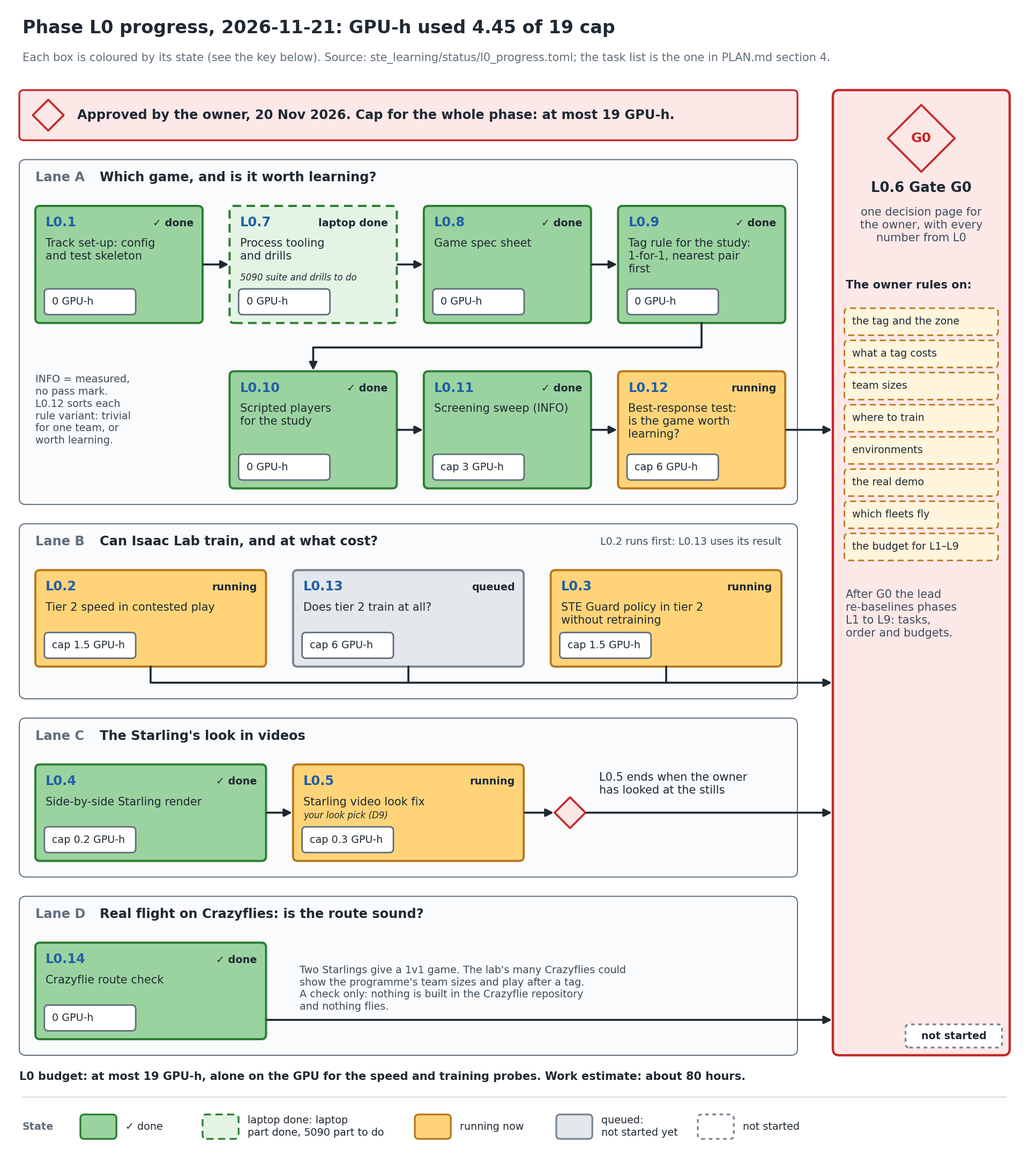
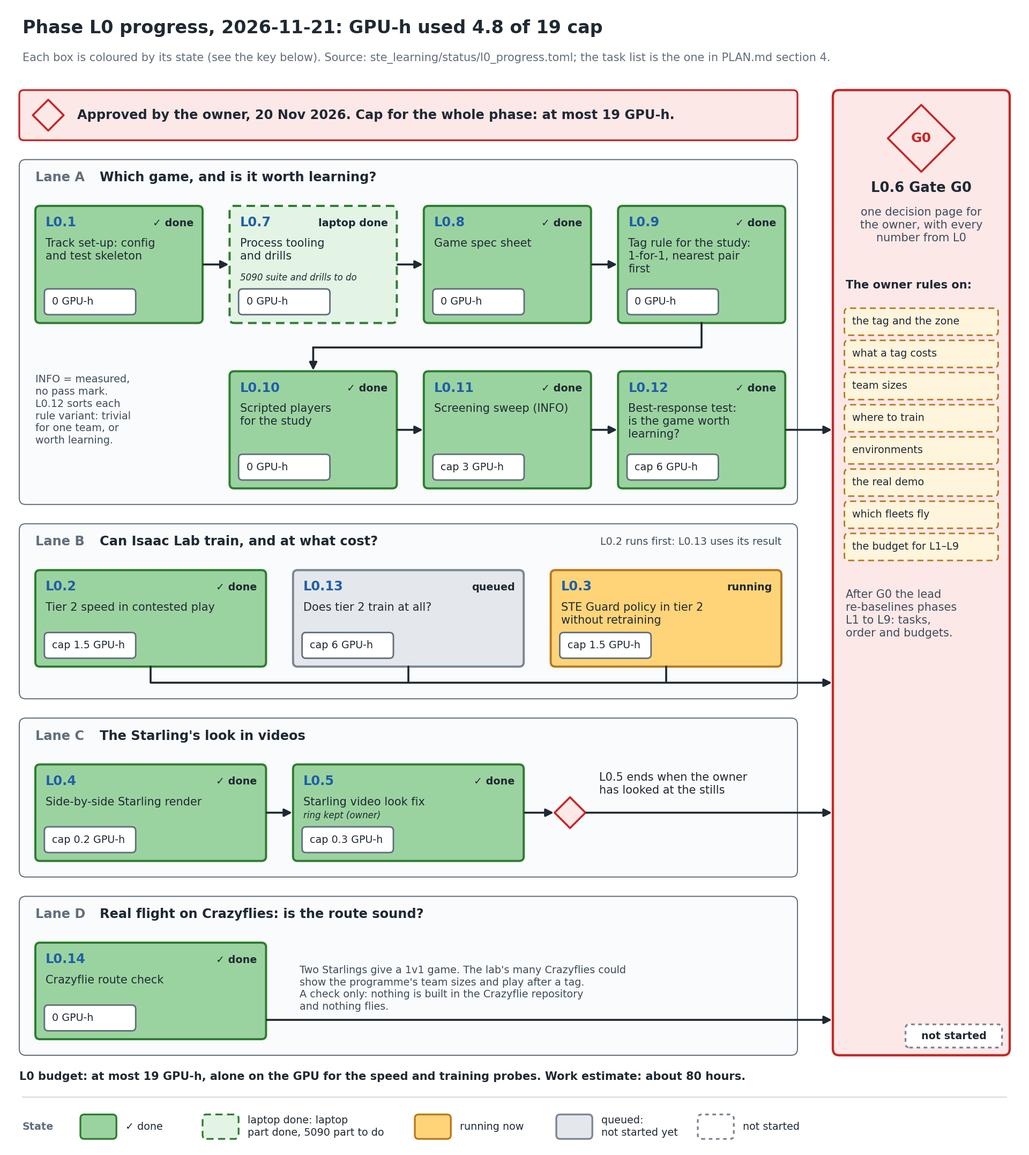
svg_training status: L0.2 done; owner decisions (ring, no re-run, bubble-tag test approved); plan

diff --git a/svg_training/ste_learning/status/LOG.md b/svg_training/ste_learning/status/LOG.md
@@ -9069,3 +9069,163 @@ Laptop drills (21 Nov, fix branch, shared folder `~/AirStack-starling-max2/svg_t
 **Waiting on you.** (1) D9: ring, dot, or neither — clips with the ring: `docs/media/ste_l011/3d/base_reach_3d.gif`; dot only as a still (`docs/media/ste_l05/arena_own_dot_3d.png`); I can render a dot clip (~0.05 GPU-h) if you want to compare moving. (2) Done: no re-run of tag 1.2 m Strike (you agreed). (3) Done: the AirStack sim video (`videos/random_CBF_sim_edited.mp4`) shows the same unpainted grey Starling; only the floor differs (blue grid there, grey here).
 
 **Correction.** The 21 Nov question on NUS values listed "speeds 0.6 / 1.2". The L0.8 review reads those two numbers as the decision period (0.6 s) and the flight height (1.2 m); the speeds are 0.5 and 0.333 m/s. Your Yes covers all of them as written on the sheet.
+
+## 2026-11-21 13:54
+
+**Status, 2026-11-21 13:55 (+08:00), 30-minute update: L0.2 DONE; L0.3 running; your decisions recorded; bubble-tag test approved** · laptop RTX 5070 Ti · L0.3 CPU part · 1 job
+
+**Plain summary (L0.2 Tier 2 speed).** Tested: how fast the Isaac Lab drones play with both teams and a learner in the
+loop. Happened: every control PASS; 3v3 at 16,384 games at once fits (4.7 GB) at 67 k training game-steps/s, against 208 k
+for the fast engine at 8,192 (Isaac Lab is 3–6× slower). Why it matters: Isaac Lab training is affordable — 300 M game-steps
+is about 1.3 h — so L0.13 (can it train at all?) runs tonight.
+
+**Your decisions today (recorded):** D9 ring kept as the team marker; no re-run of the tag 1.2 m Strike run; **test the
+"touch the safety bubble" tag at 1.15 m** (about 1.3 GPU-h beyond L0.12's 6, approved); real demo = proximity tag, physical
+interdiction shown in simulation (a proposal for G0).
+
+### Watch (latest clips and figures)
+
+**New: the L0.11 games in 3-D** (VID-1). The same recorded games, replayed and checked equal to record T44 on all
+90,000 games, then drawn in Isaac Lab with the AirStack simulator's Starling. Base 3v3, best scripted Guard v best
+scripted Strike, half real time. Training simulator tier 1 replayed for drawing only (drones drawn level); not a flight.
+
+| Guard holds (3-D view) | Strike reaches (3-D view) |
+|---|---|
+| ![](../../docs/media/ste_l011/3d/base_hold_3d.gif) | ![](../../docs/media/ste_l011/3d/base_reach_3d.gif) |
+
+Top views and the tag 1.2 m / 1.4 m games: [docs/media/ste_l011/3d/](../../docs/media/ste_l011/3d/README.md).
+
+**Your pick (D9): how should a team show on the drone?** Left: the Starling as the AirStack file draws it. Then a ring
+around the drone, or a small dot on top. The 3-D clips above use the ring for now.
+
+![](../../docs/media/ste_l05/row_l05_close.png)
+
+**Bug found and fixed (L0.4):** every Isaac clip since S2b drew a grey physics box over the drone (the hide call
+missed it). Before / after:
+
+| Before | After |
+|---|---|
+| ![](../../docs/media/ste_l04/clip_drone_before_fix.png) | ![](../../docs/media/ste_l04/clip_drone_after_fix.png) |
+
+Where phase L0 is: green done, light green laptop part done, amber running, grey queued (state file
+`ste_learning/status/l0_progress.toml`, figure by `scripts/make_ste_learning_figures.py l0_progress`).
+
+![](../figures/l0_progress.png)
+
+Earlier: L0.11 top-down clips and the factor chart are in the [T44 record](../../records/2026-11-21_ste_l011_screen_record.md).
+
+### Phases
+
+| Phase | Status | Math library | Simulator | What |
+|---|---|---|---|---|
+| NUS port Phases 1–4 | DONE | JAX (NUS), PyTorch | NUS 2-D game (JAX), Copy of NUS 2-D game (PyTorch), tier 2 Isaac Lab | NUS's code installed, game and policies copied to PyTorch, six tests towards STE drones |
+| NUS port Phase 5 | PAUSED (lead call D8) | PyTorch | Copy of NUS 2-D game (PyTorch), tier 1 fast engine | 5.1 Method match FAIL (T43); STE Guard policy 829 of 1,000 (T41) |
+| NUS port Phase 6 | DONE | none | none | public documents with videos |
+| ▶ L0 Game definition and feasibility | RUNNING (approved 20 Nov, cap 19 GPU-h) | PyTorch | tier 1 fast engine, tier 2 Isaac Lab | which game, worth learning, can tier 2 train, is the Crazyflie route sound |
+| L1–L8 | NOT STARTED | PyTorch | as ruled at gate G0 | drone model, rules, learner, evaluation, league, export, AirStack side, real flight |
+| L9 Documentation | RUNNING | none | none | status, records, results page |
+
+### Phase L0 Game definition and feasibility, task by task
+
+| ID | Plain name | Status | Simulator | Result / ETA |
+|---|---|---|---|---|
+| L0.1 | Track set-up: config and test skeleton | DONE | none | settings file, loader, tests; independent QC closed all findings |
+| L0.7 | Process tooling and drills | RUNNING (laptop part DONE) | none | merged into `development`; laptop: full suite 1,420 passed / 0 failed, wake-up drill and resume drill both as expected (below); DONE when the 5090 has run the same (L07-5090) |
+| L0.8 | Game spec sheet | DONE | none | merged into `development`; QC passed; full suite on `development` 1,461 passed / 0 failed (41 min) |
+| L0.9 | Tag rule for the study: 1-for-1, nearest pair first | DONE | tier 1 fast engine | merged; QC + re-check passed; full suite on `development` 1,517 passed / 0 failed (31 min); the 5090 records its own tag-off positions (L09-5090) |
+| L0.10 | Scripted players for the study | DONE | tier 1 fast engine | merged; QC + 2 re-checks passed; full suite on `development` 1,600 passed / 0 failed (56 min, CPU shared with the L0.11 GPU jobs) |
+| L0.11 | Screening sweep (INFO) | DONE | tier 1 fast engine | record T44 (every control PASS; shortlist base (reference), tag 1.2 m, tag 1.4 m; every hold a one-for-one trade) + follow-up checks; merged into `development`; full suite 1,685 passed / 0 failed (27 min) |
+| L0.12 | Best-response test: is the game worth learning? | DONE (records T46/T47 written, QC PASS; merging) | tier 1 fast engine | pilot PASS; run 0 PASS; **base: worth learning** (Guard 913 v 808, Strike 636 v 192); **tag 1.4 m: worth learning** (Guard 747 v 672, Strike 740 v 328); **tag 1.2 m: incomplete** (Guard 503 v script 645; Strike ABORTED, 87/88 updates, trained Strikes wait out the clock); every control PASS; 3.86 GPU-h of 6; record T46 (verdict) + T47 (aborted run) being written; 3-D clips of the key games need VID-1b (the 3-D tool replays scripted players only) |
+| L0.2 | Tier 2 speed in contested play | DONE (record next) | tier 2 Isaac Lab | every control PASS (physics check 0.0036 m, game counts identical); 3v3: Isaac Lab 9.8 k (1,024 games) → 67 k (16,384 games) training game-steps/s v fast engine 51 k → 208 k (8,192); 16,384 Isaac games use 4.7 GB; 5v3, 2v1, 1v1 at 4,096 measured; 0.29 GPU-h (+0.10 smokes) |
+| L0.13 | Does tier 2 train at all? | NOT STARTED | tier 2 Isaac Lab | laptop allowed (owner, 21 Nov), after L0.2, at the games-at-once L0.2 shows fits; cap 6 GPU-h |
+| L0.3 | STE Guard policy in tier 2 without retraining | RUNNING | tier 2 Isaac Lab | smoke PASS (physics check 0.00008 m); cap 1.4 GPU-h (smokes used ~0.04); CPU reference part running, Isaac part follows automatically |
+| L0.4 | Side-by-side Starling render | DONE | tier 2 Isaac Lab | found why our clips never looked like the Starling: a grey physics box was drawn over every drone since S2b (the hide call missed it); one-line fix, re-render shows the Starling (before/after in Watch); merged into `development` after independent review; 0.028 of 0.2 GPU-h |
+| L0.5 | Starling video look fix | WAITING ON YOU (D9) | tier 2 Isaac Lab | the drone left unpainted, team shown by a ring or a small dot that casts no shadow; stills in Watch; 0.154 of 0.3 GPU-h (with VID-1) |
+| L0.14 | Crazyflie route check | DONE | tier 1 fast engine (CPU) | record T45: the T41 Guard policy holds 791–768 of 1,000 in the Crazyflie-like lag band (0.48–0.56 s, every drone slowed) against 831 at the Starling's lag, and drones come closer (games under 1.0 m: 7 → 101–149); planner, like for like: 0 of 100 at 3v3 and 5v3 against 20 Nov's 5 of 100 (not a clear difference; only one rule set run); QC + re-check passed; merged into `development` (targeted tests 76 passed; the full suite runs with the next merge — lead's call, the CPU is shared now); page `ste_learning/CRAZYFLIE_ROUTE.md` |
+| L0.6 | Gate G0 | NOT STARTED | none | after every task above; the owner decides |
+
+GPU-h used in L0 so far: about 4.8 of 19 (L0.11 0.43, L0.4 0.03, L0.5 + VID-1 0.15, L0.2 0.39, L0.12 3.86); L0.3 running. Expected at the end of L0: about 13–14.
+
+Laptop full CPU suite (20 Nov, `development` at 5c5d465, after `scripts/nus_install_provisional.sh`): **1,333 passed, 2 failed, 48 skipped** in 24 min. Both failures repeat when run alone:
+- **L07-F1** `test_ste_job.py::test_f_d_a_killed_job…resumes`: CONFIRMED by QC: the tool does not over-report (it measures from the same start; ~0.255 s raw, printed rounded to 0.3); the test compares the rounded text with the exact elapsed time. Fix: allow half a display step.
+- **TEST-F2** `test_train_standin.py::test_default_path_bit_identical_after_the_nus_hooks`: FIXED (447b317). Measured on the laptop: the hash repeats (75d2a955…), hold rates equal the recorded [0.25, 0.375], and forcing PyTorch's CPU capability down changes the hash; threads (trainer runs one) and local files (not read on this path) ruled out. The fingerprint is now one hash per CPU capability; hold rates are checked on every machine.
+
+### Usage (laptop session, 20 Nov 22:00 to now)
+
+| What | Agent tokens | Wall time | Note |
+|---|---|---|---|
+| L0.7 fixes: builder, 7 fixes one at a time | ~400 k | ~51 min | the largest: each fix re-reads the tooling and its tests |
+| L0.8 Game spec sheet: builder, build + 2 fix rounds | ~320 k | ~50 min | includes its own 25-min full suite |
+| L0.7 independent QC + re-check | ~246 k | ~18 min | reproduced C1 and I1 in a scratch folder |
+| L0.8 independent QC + re-check | ~209 k | ~12 min | mutation tests on the sheet |
+| L0.9 Tag rule: builder (build + fix round) | ~358 k | ~66 min | the first 50 min slowed by sharing the CPU with the L0.7 suite |
+| L0.9 independent QC + re-check | ~239 k | ~31 min | ran its own reference matcher, mutants and old-vs-new games |
+| L0.10 Scripted players: builder (build + rulings + 2 QC fix rounds) | ~420 k | ~56 min | |
+| L0.10 independent QC (+ 2 re-checks) | ~353 k | ~71 min | 84 deliberate breakages over two rounds; its own geometry probes on 30,000+ starts |
+| L0.11 sweep build (CPU, build + rulings + rebase + QC fixes + follow-ups) | ~677 k | ~106 min | the largest single task so far; a fresh builder takes L0.12 to avoid re-reading this context |
+| L0.12 groundwork builder | ~550 k | ~54 min | |
+| L0.12 pre-launch QC | ~322 k | ~48 min | 19 deliberate breakages, 8 not caught before the fixes |
+| L0.14 builder | ~368 k | ~118 min | the Crazyflie planner sweep ran on the CPU (2,868 matches) |
+| L0.11 pre-launch QC | ~293 k | ~24 min | broke the code five ways through the real driver |
+| L0.11 CUDA smoke | | ~5 min | 0.087 GPU-h |
+| L0.11 independent QC (pre-launch, re-check, results read) | ~419 k | ~45 min | |
+| L0.11 sweep | | 18 min | 0.305 GPU-h (L0.11 total 0.426 of 3.0) |
+| L0.4 + L0.5 + VID-1 builder (stills, box bug, replay check, 3-D renderer) | ~410 k | ~3 h incl. the 08:30 limit stop | 0.141 GPU-h; the account hit its 5-hour token limit at about 07:30 (three agents at once); resumed 08:44 |
+| L0.12 gate fix + follow-up builder | ~280 k | ~55 min | run 0 design, N-2/N-4, tests |
+| L0.12 QC re-checks 1–2 | ~450 k | ~30 min | 8 breakages tried on run 0 |
+| L0.2/L0.3 builder | ~410 k | ~30 min | + fix round now |
+| L0.2/L0.3 pre-launch QC + 2 re-checks | ~650 k | ~60 min | 39 + 6 breakages tried |
+| L0.2/L0.3 fix rounds 1-2 | ~1.1 M | ~41 min | **the costliest task today**: each round re-reads the code; narrow rounds from here |
+| L0.12 GPU pilot | | 11 min | 0.178 GPU-h |
+| L0.11 GPU pilot | | 2 min | 0.034 GPU-h (first GPU job of the track) |
+| Full CPU test suite | none | ~25 min alone; the L0.7 merge run took 61 min (shared the CPU with L0.9's tests) | rule from now: one heavy test run at a time |
+| GPU | 0 GPU-h | | nothing has used the GPU |
+
+Sub-agents total about 1.2 M tokens so far; the lead's own context is not measured by the tools here.
+
+Laptop drills (21 Nov, fix branch, shared folder `~/AirStack-starling-max2/svg_training/runs/shared/`, no owner pause open):
+- Wake-up: `L0.7 l07_wakeup DONE exit=0 duration=120.4s effective=120.4s`, `waiter exit 0` (the background waiter's end was the wake-up).
+- Resume: `alive` → simulated power cut (`kill -KILL` of the process group at step 30) → `dead`; waiter `DIED exit=none duration=31.2s`, `waiter exit 21`; relaunch with `bash cmd.txt` from a shell with a wrong `PYTHONPATH` and `SVG_SHARED_DIR` → `launch=2`, `resumed from step 30 of 120`, `DONE exit=0 duration=90.4s effective=90.4s run_effective=120.3s`, `waiter exit 0`, `{"steps": 120, "total": 7260.0}`; the wrong shared folder was never created.
+
+### Other workstreams
+
+| ID | Plain name | Status |
+|---|---|---|
+| SYNC-1 | Branch `development` on both machines; laptop worktree `~/AirStack-starling-max2-dev` | DONE |
+| SYNC-2 | Status skill `train-status` and the owner's standing rules in CLAUDE.md | DONE |
+| SYNC-3 | Root `CLAUDE.md` and every page: training work lands on `development` | DONE |
+| SYNC-4 | STE Guard policy (T41 run folder) in the PROVISIONAL bundle | DONE; installed on the laptop (46 files, agent.pt c91bea51…) |
+| L07-F1 | Fix: waiter-duration test bound (rounding) (QC I5) | DONE (a4100d0; 30 of 30 runs pass; L0.7 test files 217 passed) |
+| L07-C1 | Fix: an open pause takes time off every job, and launch does not check for one: a job launched during a pause runs on the GPU with 0 GPU-h counted and its cap never fires | DONE (79effa0 on branch ste-l0.7-fix; red 48 failed, then L0.7 + NUS pause tests 251 passed). Pauses still always logged; launch refuses while one is open; a pause counts only against the jobs it stopped |
+| L07-I1 | Fix: a new run reusing an old job name inherits that job's GPU-hours as credit (task cap can be exceeded) | DONE (05dd547; credit keyed by job name + run folder; red 24 failed, then 256 passed) |
+| L07-I2 | Fix: `cmd.txt` relaunch loses the environment (PYTHONPATH, CUDA alloc setting, shared-folder path) | DONE (d0661f4; cmd.txt replays the first launch's environment; a different shared folder is refused; resume drill uses bash cmd.txt; red 3 failed, then 259 passed) |
+| L07-I3 | Fix: the launcher's wrapper can die (clock step back, full disk) while the job runs on: GPU time stops being logged | DONE (1ca8a70; every wrapper write survives an error, records a fault and retries; red 8 failed, then 267 passed) |
+| L07-I4 | Fix: a job resumed after a reboot is flagged ENDED_EARLY (exit 20) though it finished correctly | DONE (70fc1a3; judged on the trainer's saved progress across launches; red: drill pattern read 20; then 280 passed) |
+| L08-F1 | Finding: the hangar's Strike start ring (3.2 m from the zone centre) does not fit the 6.5 m lab arena (drones kept within 3.0 m); a ring for 6.5 m is needed before L0.11's base case | CLOSED (lead's call): Strike start ring 2.75 m for the 6.5 m arena, PROPOSED, ruled at G0 |
+| L07-C1b | Fix: our own "pause the siblings, run solo" step (AUTOMATION §2.2) is now refused too; lead's design: pauses the session makes are tagged and do not block launch, your pauses still do | DONE (ef38534; `GPU_PAUSE_BY=lead` tags the session's pauses; a bare `gpu_pause.sh pause` is still yours and still blocks; red 13 failed, then 298 passed) |
+| L07-C1c | Fix: a session-tagged resume must refuse while any of your pauses is open (a resume today continues every job and closes your pauses too) | DONE (efa9ec1; a bare resume/stop is unchanged; red 4 failed, then 304 passed) |
+| GIT-1 | Fix: my 17 Nov `.gitignore` line `data/` also hid new files in `tests/data/` | DONE (d3572dc: anchored to `/data/`) |
+| L011-F1 | Finding: scripted players decide every 0.05 s tick, not at the sheet's 0.6 s decision period; the sweep measures scripted play at 0.05 s; L0.12's trainers must set their decision period explicitly (T41 used 0.6 s) | OPEN: written into the L0.11 gate file and record |
+| L07-SUSPEND | Tooling: a laptop sleep during a GPU job is counted as GPU-hours and as time towards the job's cap (wall clock). Rule until fixed: never let the laptop sleep during a GPU job | QUEUED (tooling task); rule in force now |
+| L011-G0 | Finding for gate G0 (T44, scripted play): (1) every hold is a one-for-one trade — no tag-on game times out, and at 1v1 and 3v3 a Guard win leaves no Guard — so head-count decides (PLAN F1; bears on what a tag costs, P12); (2) the programme's sizes 2v1 and 5v3, and 1v1, are Guard-trivial with scripted players at the proposed rules; candidate cause: tag radius 1.6 m = zone radius 1.6 m with Guards starting on a circle near the zone centre (not tested). L0.12 measures whether learning changes either | OPEN: reported at G0 |
+| L010-G0 | Finding for gate G0 (from L0.10 QC): any safety-filter move near the 1.6 m tag radius can create a tag nobody chose (the filter's 1.10 m keep-out is inside the tag radius). Spaced starts remove it at the start; during play it is part of the game the sweep measures (P1) | OPEN: reported at G0 |
+| L09-5090 | On the 5090: record the tag-off golden's positions for its CPU type (AVX512); check the outcome fingerprints there | WAITING: next 5090 session |
+| DOC-1 | A phase-L0 flowchart coloured by progress (done / running / queued), regenerated with each status and shown in its Watch section (owner, 21 Nov: "photos or diagram flow charts would be good too") | DONE (progress flowchart; regenerated with each status) |
+| VID-1 | Clips: a height panel on the 2-D top-down clips of every run; 3-D Isaac Lab videos (Starling look, top view + 3-D view, MP4 + GIF) of each result's key games | L0.11 DONE, merged: 6 key games (base, tag 1.2 m, tag 1.4 m × hold, reach) × top + 3-D, MP4 + GIF; every replayed game checked equal to T44 (90,000 of 90,000) before drawing; independent review: 1 important bug (old files could be drawn after a failed check; never happened) + minors, fixed and re-reviewed; the published games re-checked with the stricter check: identical; full suite on the merge 1,751 passed (the 2 failures it found are fixed: an unlisted Crazyflie import from L0.14, and my progress-chart test reading the live file); next: L0.12 results |
+| L08-M | L0.8 minors left: 3 hangar values unchecked on a clone without the NUS bundle; 3 values whose wrong value still passes; loader refuses some honest wording; tests tied to exact lines and the AirStack fence file | PARKED |
+| L07-DISK | Follow-up: the planned disk-space check (a disk full through 10 retries at a job's end reads DIED) | PARKED (stated limit) |
+| L07-N | Re-check minors N1–N4: a session pause also lands in the old per-worktree log the NUS reader uses; full disk can hold the wrapper 10 min after the end; AUTOMATION §4 still states the old GPU-hour rule; on the 5090 run `scripts/ste_job.py owner-pauses` before the drills | PARKED (N4 goes into the 5090 note) |
+| L07-M | QC's 10 minor findings (+3 from the C1 build: pid-only matching, test pause pattern shared across sessions, pid reuse) (runs/ste_l07/qc_report.md) | PARKED until the six fixes land |
+| L07-5090 | L0.7 on the 5090: full CPU suite and the two drills there (L0.7 is DONE only after both machines) | WAITING: next 5090 session |
+| TEST-F2 | Fix: bit-level training fingerprint is machine-specific | DONE (447b317; trainer test file 43 passed, 1 skipped) |
+| TEST-F2b | On the 5090: confirm its CPU capability is AVX512 (the key its 18 Nov hash is now filed under) | WAITING: next 5090 session runs the test (fails or skips loudly if wrong) |
+
+**Machines (owner, 21 Nov):** no task is 5090-only. The RTX 5090 (32 GB) suits memory-heavy runs; the laptop RTX 5070 Ti (12 GB) runs everything sized to fit, and the record says which machine. Only machine checks stay with their machine: TEST-F2b, L07-5090, L09-5090. **Schedule:** weekends the laptop runs the pipeline (the 5090 is free for gaming); weekdays the 5090 does (the laptop goes to work). **This weekend:** the owner packs the laptop **Mon 23 Nov 10:00**: no GPU job starts unless it can end by **Mon 08:00**; by **09:30** everything is committed, HANDOFF §0 and status written, ready to push.
+
+**GPU queue on the laptop (one at a time for speed measurements):** L0.12 pilot → L0.12 trainings → L0.2 → L0.3 → L0.13 (L0.4, L0.5, VID-1 for L0.11 done).
+
+**Next.** (1) L0.3 (running). (2) Merge L0.12 (suite running), L0.2 record. (3) Bubble-tag test at 1.15 m: rules written first, scripted screen, then a trained Guard and Strike (~1.3 GPU-h, this evening). (4) L0.13 overnight (≤ 6 GPU-h). (5) 3-D clips of trained players with a visible tag circle (VID-1b). (6) The G0 page, Sunday. Hard stop: GPU jobs end Mon 08:00, wrap-up 09:30.
+
+**Waiting on you.** Nothing now. At gate G0: tag rule (1.15 m bubble or 1.4 m), varied tag distance in training, what a tag costs, zone size, team sizes, where to train, the real demo, the physical-intercept study, the L1–L9 budget.
+
+**Correction.** The 21 Nov question on NUS values listed "speeds 0.6 / 1.2". The L0.8 review reads those two numbers as the decision period (0.6 s) and the flight height (1.2 m); the speeds are 0.5 and 0.333 m/s. Your Yes covers all of them as written on the sheet.

diff --git a/svg_training/ste_learning/status/STATUS_LATEST.md b/svg_training/ste_learning/status/STATUS_LATEST.md
@@ -1,13 +1,15 @@
 INTERNAL · the latest status of STE's own learning track and the NUS port, overwritten at every update; the history is in [LOG.md](LOG.md). Produced by the `train-status` skill.
 
-**Status, 2026-11-21 13:25 (+08:00), event: L0.12 all runs done (base and tag 1.4 m worth learning); L0.2 run of record running** · laptop RTX 5070 Ti · GPU: L0.2 · 1 job
+**Status, 2026-11-21 13:55 (+08:00), 30-minute update: L0.2 DONE; L0.3 running; your decisions recorded; bubble-tag test approved** · laptop RTX 5070 Ti · L0.3 CPU part · 1 job
 
-**Plain summary (L0.12 Best-response test, all runs done).** Tested: can a trained team beat the best hand-written team, three
-rule sets, both sides. Happened (training simulator): base and tag 1.4 m are **worth learning** on both sides (base Guard 913 v
-808, Strike 636 v 192; tag 1.4 m Guard 747 v 672, Strike 740 v 328, all gains real); tag 1.2 m is **incomplete**: the trained
-Guard stayed below its script (503 v 645) and the Strike run was ABORTED by its own time rule (87 of 88 updates). The scripts
-alone already put both sides above the 0.2 band there, so no side is trivial; no re-run (owner agreed). Record T46/T47 being
-written. Why it matters: this is the main input to gate G0 — the game is worth learning.
+**Plain summary (L0.2 Tier 2 speed).** Tested: how fast the Isaac Lab drones play with both teams and a learner in the
+loop. Happened: every control PASS; 3v3 at 16,384 games at once fits (4.7 GB) at 67 k training game-steps/s, against 208 k
+for the fast engine at 8,192 (Isaac Lab is 3–6× slower). Why it matters: Isaac Lab training is affordable — 300 M game-steps
+is about 1.3 h — so L0.13 (can it train at all?) runs tonight.
+
+**Your decisions today (recorded):** D9 ring kept as the team marker; no re-run of the tag 1.2 m Strike run; **test the
+"touch the safety bubble" tag at 1.15 m** (about 1.3 GPU-h beyond L0.12's 6, approved); real demo = proximity tag, physical
+interdiction shown in simulation (a proposal for G0).
 
 ## Watch (latest clips and figures)
 
@@ -61,16 +63,16 @@ Earlier: L0.11 top-down clips and the factor chart are in the [T44 record](../..
 | L0.9 | Tag rule for the study: 1-for-1, nearest pair first | DONE | tier 1 fast engine | merged; QC + re-check passed; full suite on `development` 1,517 passed / 0 failed (31 min); the 5090 records its own tag-off positions (L09-5090) |
 | L0.10 | Scripted players for the study | DONE | tier 1 fast engine | merged; QC + 2 re-checks passed; full suite on `development` 1,600 passed / 0 failed (56 min, CPU shared with the L0.11 GPU jobs) |
 | L0.11 | Screening sweep (INFO) | DONE | tier 1 fast engine | record T44 (every control PASS; shortlist base (reference), tag 1.2 m, tag 1.4 m; every hold a one-for-one trade) + follow-up checks; merged into `development`; full suite 1,685 passed / 0 failed (27 min) |
-| L0.12 | Best-response test: is the game worth learning? | DONE (record being written) | tier 1 fast engine | pilot PASS; run 0 PASS; **base: worth learning** (Guard 913 v 808, Strike 636 v 192); **tag 1.4 m: worth learning** (Guard 747 v 672, Strike 740 v 328); **tag 1.2 m: incomplete** (Guard 503 v script 645; Strike ABORTED, 87/88 updates, trained Strikes wait out the clock); every control PASS; 3.86 GPU-h of 6; record T46 (verdict) + T47 (aborted run) being written; 3-D clips of the key games need VID-1b (the 3-D tool replays scripted players only) |
-| L0.2 | Tier 2 speed in contested play | RUNNING (run of record) | tier 2 Isaac Lab | re-smoke PASS: physics check 0.0036 m (limit 0.02), game counts identical in both worlds; smoke speed at 1,024 games: Isaac 9,800 v fast engine 51,000 training game-steps/s; run of record started 13:13, cap lowered 1.5 → 1.4 GPU-h before it (smokes used 0.096); now at 5v3, 4,096 games (~0.9 GPU-h expected) |
+| L0.12 | Best-response test: is the game worth learning? | DONE (records T46/T47 written, QC PASS; merging) | tier 1 fast engine | pilot PASS; run 0 PASS; **base: worth learning** (Guard 913 v 808, Strike 636 v 192); **tag 1.4 m: worth learning** (Guard 747 v 672, Strike 740 v 328); **tag 1.2 m: incomplete** (Guard 503 v script 645; Strike ABORTED, 87/88 updates, trained Strikes wait out the clock); every control PASS; 3.86 GPU-h of 6; record T46 (verdict) + T47 (aborted run) being written; 3-D clips of the key games need VID-1b (the 3-D tool replays scripted players only) |
+| L0.2 | Tier 2 speed in contested play | DONE (record next) | tier 2 Isaac Lab | every control PASS (physics check 0.0036 m, game counts identical); 3v3: Isaac Lab 9.8 k (1,024 games) → 67 k (16,384 games) training game-steps/s v fast engine 51 k → 208 k (8,192); 16,384 Isaac games use 4.7 GB; 5v3, 2v1, 1v1 at 4,096 measured; 0.29 GPU-h (+0.10 smokes) |
 | L0.13 | Does tier 2 train at all? | NOT STARTED | tier 2 Isaac Lab | laptop allowed (owner, 21 Nov), after L0.2, at the games-at-once L0.2 shows fits; cap 6 GPU-h |
-| L0.3 | STE Guard policy in tier 2 without retraining | RUNNING (committed) | tier 2 Isaac Lab | committed (06436e9) with L0.2's fixes; smoke after L0.2's, then the run (~0.6 GPU-h) |
+| L0.3 | STE Guard policy in tier 2 without retraining | RUNNING | tier 2 Isaac Lab | smoke PASS (physics check 0.00008 m); cap 1.4 GPU-h (smokes used ~0.04); CPU reference part running, Isaac part follows automatically |
 | L0.4 | Side-by-side Starling render | DONE | tier 2 Isaac Lab | found why our clips never looked like the Starling: a grey physics box was drawn over every drone since S2b (the hide call missed it); one-line fix, re-render shows the Starling (before/after in Watch); merged into `development` after independent review; 0.028 of 0.2 GPU-h |
 | L0.5 | Starling video look fix | WAITING ON YOU (D9) | tier 2 Isaac Lab | the drone left unpainted, team shown by a ring or a small dot that casts no shadow; stills in Watch; 0.154 of 0.3 GPU-h (with VID-1) |
 | L0.14 | Crazyflie route check | DONE | tier 1 fast engine (CPU) | record T45: the T41 Guard policy holds 791–768 of 1,000 in the Crazyflie-like lag band (0.48–0.56 s, every drone slowed) against 831 at the Starling's lag, and drones come closer (games under 1.0 m: 7 → 101–149); planner, like for like: 0 of 100 at 3v3 and 5v3 against 20 Nov's 5 of 100 (not a clear difference; only one rule set run); QC + re-check passed; merged into `development` (targeted tests 76 passed; the full suite runs with the next merge — lead's call, the CPU is shared now); page `ste_learning/CRAZYFLIE_ROUTE.md` |
 | L0.6 | Gate G0 | NOT STARTED | none | after every task above; the owner decides |
 
-GPU-h used in L0 so far: about 4.45 of 19 (laptop: L0.11 0.426, L0.4 0.028, L0.5 + VID-1 0.154, L0.2 smokes 0.096, L0.12 3.86 (pilot 0.178, run 0 0.061, six runs 3.62)); L0.2 run of record in progress.
+GPU-h used in L0 so far: about 4.8 of 19 (L0.11 0.43, L0.4 0.03, L0.5 + VID-1 0.15, L0.2 0.39, L0.12 3.86); L0.3 running. Expected at the end of L0: about 13–14.
 
 Laptop full CPU suite (20 Nov, `development` at 5c5d465, after `scripts/nus_install_provisional.sh`): **1,333 passed, 2 failed, 48 skipped** in 24 min. Both failures repeat when run alone:
 - **L07-F1** `test_ste_job.py::test_f_d_a_killed_job…resumes`: CONFIRMED by QC: the tool does not over-report (it measures from the same start; ~0.255 s raw, printed rounded to 0.3); the test compares the rounded text with the exact elapsed time. Fix: allow half a display step.
@@ -150,8 +152,8 @@ Laptop drills (21 Nov, fix branch, shared folder `~/AirStack-starling-max2/svg_t
 
 **GPU queue on the laptop (one at a time for speed measurements):** L0.12 pilot → L0.12 trainings → L0.2 → L0.3 → L0.13 (L0.4, L0.5, VID-1 for L0.11 done).
 
-**Next.** (1) L0.2 run of record (~14:30), then its record. (2) L0.12 records T46/T47 → QC read → merge. (3) L0.3 smoke then run (~0.6 GPU-h). (4) Plan and build L0.13 (does tier 2 train at all?). (5) VID-1b: 3-D clips of trained players.
+**Next.** (1) L0.3 (running). (2) Merge L0.12 (suite running), L0.2 record. (3) Bubble-tag test at 1.15 m: rules written first, scripted screen, then a trained Guard and Strike (~1.3 GPU-h, this evening). (4) L0.13 overnight (≤ 6 GPU-h). (5) 3-D clips of trained players with a visible tag circle (VID-1b). (6) The G0 page, Sunday. Hard stop: GPU jobs end Mon 08:00, wrap-up 09:30.
 
-**Waiting on you.** (1) D9: ring, dot, or neither — clips with the ring: `docs/media/ste_l011/3d/base_reach_3d.gif`; dot only as a still (`docs/media/ste_l05/arena_own_dot_3d.png`); I can render a dot clip (~0.05 GPU-h) if you want to compare moving. (2) Done: no re-run of tag 1.2 m Strike (you agreed). (3) Done: the AirStack sim video (`videos/random_CBF_sim_edited.mp4`) shows the same unpainted grey Starling; only the floor differs (blue grid there, grey here).
+**Waiting on you.** Nothing now. At gate G0: tag rule (1.15 m bubble or 1.4 m), varied tag distance in training, what a tag costs, zone size, team sizes, where to train, the real demo, the physical-intercept study, the L1–L9 budget.
 
 **Correction.** The 21 Nov question on NUS values listed "speeds 0.6 / 1.2". The L0.8 review reads those two numbers as the decision period (0.6 s) and the flight height (1.2 m); the speeds are 0.5 and 0.333 m/s. Your Yes covers all of them as written on the sheet.
